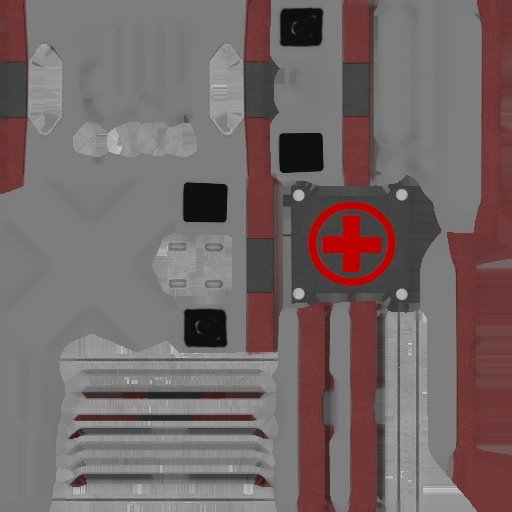
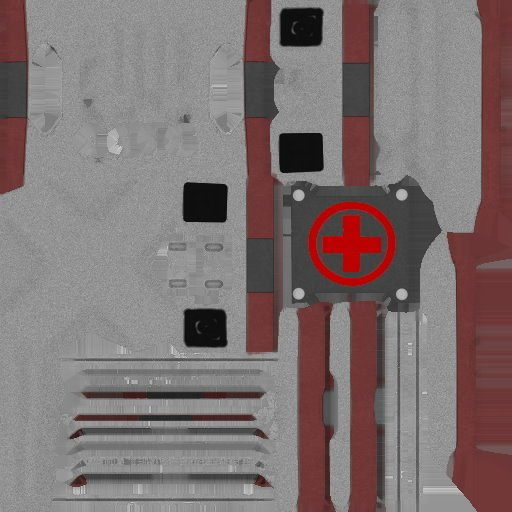
- Redid powerup graphics and added SEM for parts of mesh only.

diff --git a/app/src/material.js b/app/src/material.js
@@ -1,5 +1,5 @@
 import { gl } from './context.js';
-import { Shaders, Shader } from './shaders.js';
+import { Shaders } from './shaders.js';
 import Texture from './texture.js';
 
 class Material {
@@ -14,6 +14,7 @@ class Material {
         m.detailUVMult = data.detailUVMult ? data.detailUVMult : 0;
         m.doEmissive = data.doEmissive ? data.doEmissive : 0;
         m.doSEM = data.doSEM ? data.doSEM : 0;
+        m.semMult = data.semMult ? data.semMult : 0;
         m.textures.forEach((name) => {
             if (name === 'none') {
                 return;
@@ -28,10 +29,12 @@ class Material {
         Shaders.geometry.setInt('detailSampler', 1);
         Shaders.geometry.setInt('emissiveSampler', 2);
         Shaders.geometry.setInt('semSampler', 3);
+        Shaders.geometry.setInt('semApplySampler', 4);
         Shaders.geometry.setInt('geomType', m.geomType);
         Shaders.geometry.setInt('doDetail', m.doDetail);
         Shaders.geometry.setFloat('detailMult', m.detailMult);
         Shaders.geometry.setFloat('detailUVMult', m.detailUVMult);
+        Shaders.geometry.setFloat('semMult', m.semMult);
         Shaders.geometry.setInt('doEmissive', m.doEmissive);
         Shaders.geometry.setInt('doSEM', m.doSEM);
 

diff --git a/app/src/shaders.js b/app/src/shaders.js
@@ -150,10 +150,12 @@ const Shaders = {
         uniform int doSEM;
         uniform float detailMult;
         uniform float detailUVMult;
+        uniform float semMult;
         uniform sampler2D colorSampler;
         uniform sampler2D detailSampler;
         uniform sampler2D emissiveSampler;
         uniform sampler2D semSampler;
+        uniform sampler2D semApplySampler;
 
         const int MESH = 1;
         const int INSTANCED_MESHES = 2;
@@ -186,7 +188,11 @@ const Shaders = {
             if (doSEM==1)
             {
                 vec4 semColor = texture(semSampler, vSemUV);
-                color = mix(color, semColor, 0.5);
+                vec4 semApply = texture(semApplySampler, vUV);
+                float semSum = semApply.x * semApply.y * semApply.z;
+                if (semSum > 0.2) {
+                    color =  mix(color, semColor * semApply, semMult);
+                }
             }         
 
             fragColor = color + fragEmissive;
